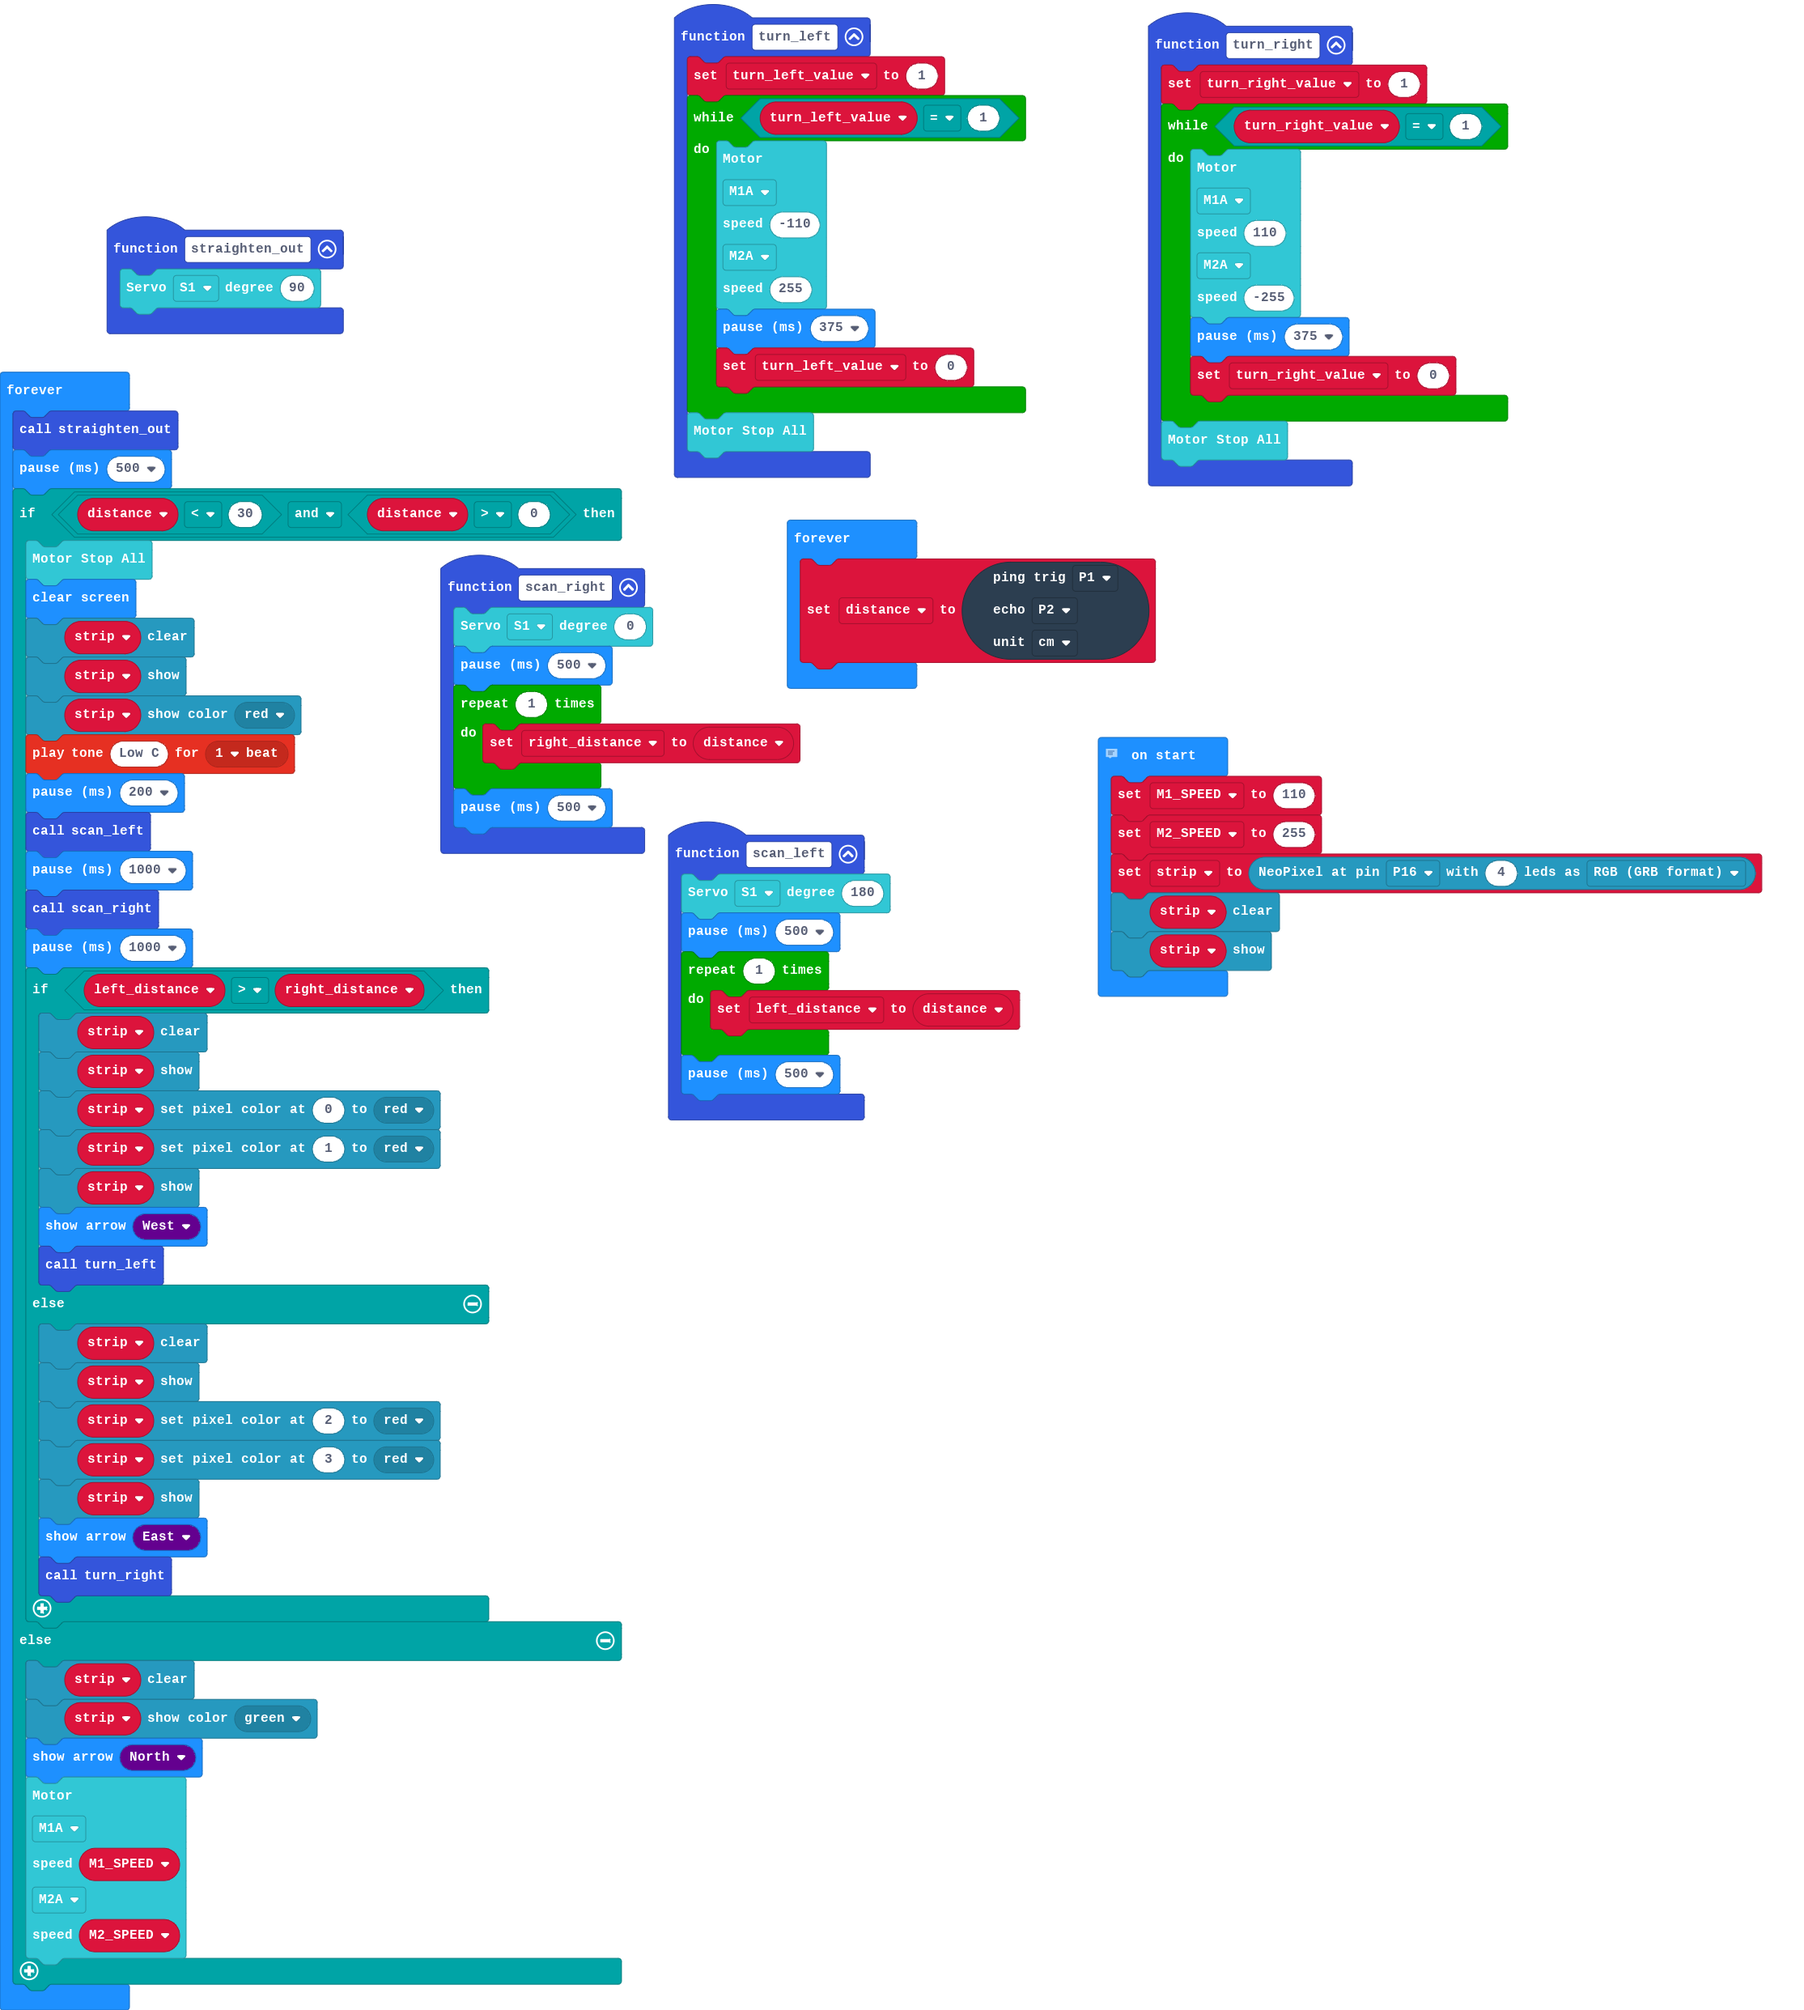
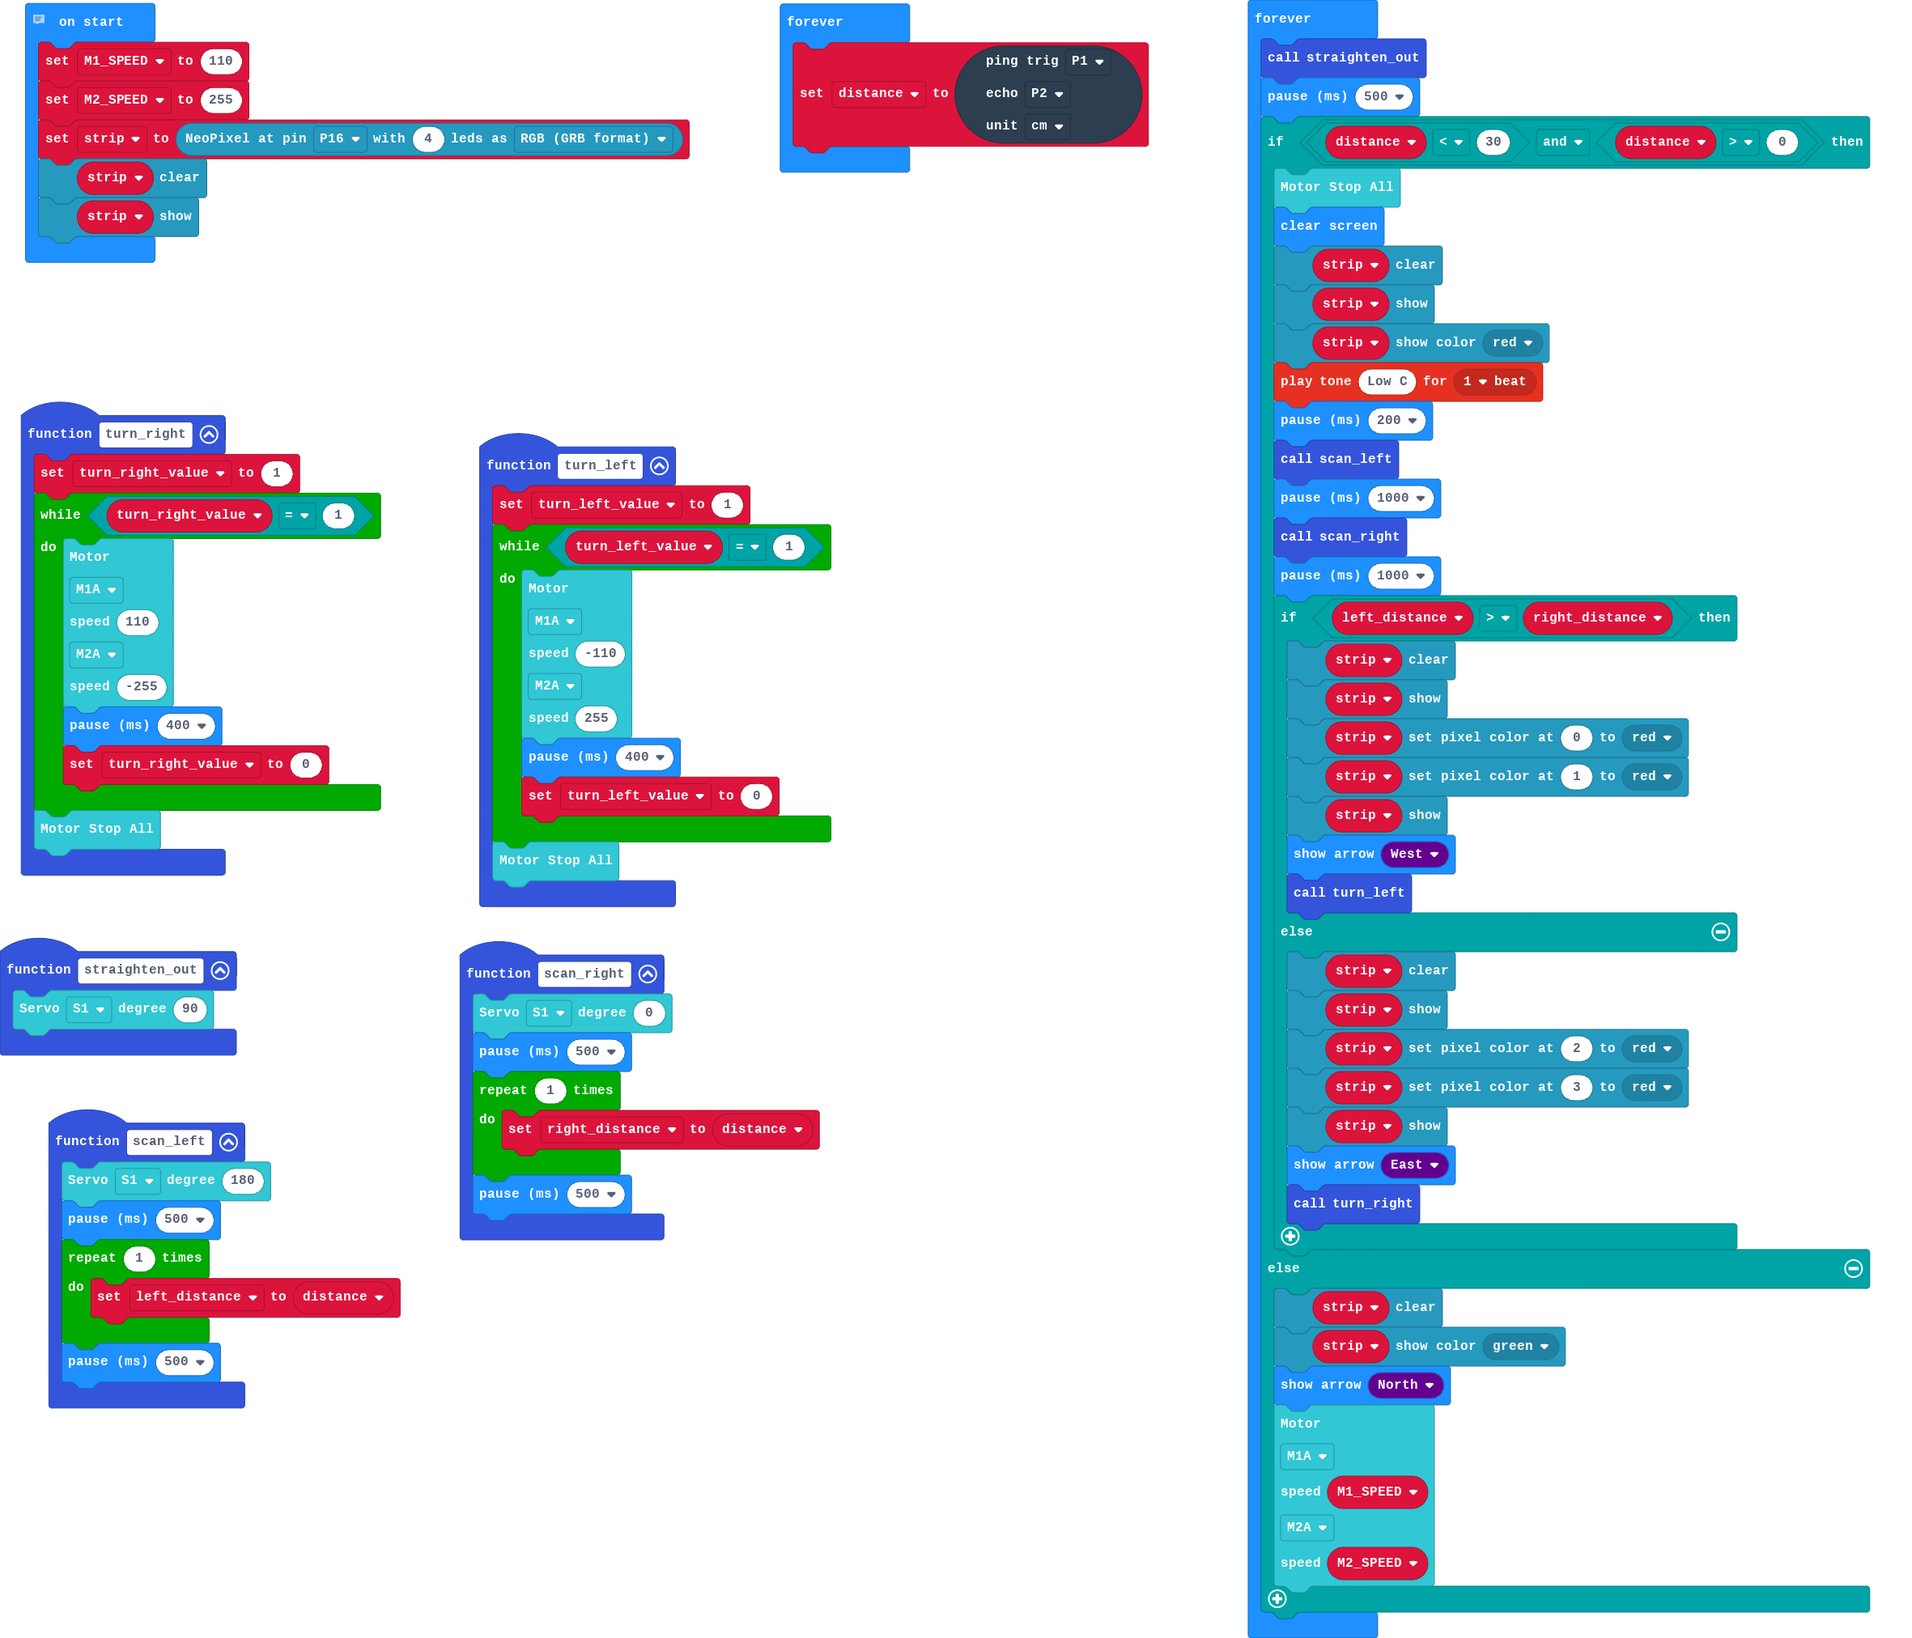
Update main.blocks, main.ts

diff --git a/main.ts b/main.ts
@@ -18,7 +18,7 @@ function turn_left () {
         robotbit.Motors.M2A,
         255
         )
-        basic.pause(375)
+        basic.pause(400)
         turn_left_value = 0
     }
     robotbit.MotorStopAll()
@@ -40,7 +40,7 @@ function turn_right () {
         robotbit.Motors.M2A,
         -255
         )
-        basic.pause(375)
+        basic.pause(400)
         turn_right_value = 0
     }
     robotbit.MotorStopAll()
@@ -59,6 +59,13 @@ let M2_SPEED = 255
 let strip = neopixel.create(DigitalPin.P16, 4, NeoPixelMode.RGB)
 strip.clear()
 strip.show()
+basic.forever(function () {
+    distance = sonar.ping(
+    DigitalPin.P1,
+    DigitalPin.P2,
+    PingUnit.Centimeters
+    )
+})
 basic.forever(function () {
     straighten_out()
     basic.pause(500)
@@ -102,11 +109,4 @@ basic.forever(function () {
         M2_SPEED
         )
     }
-})
-basic.forever(function () {
-    distance = sonar.ping(
-    DigitalPin.P1,
-    DigitalPin.P2,
-    PingUnit.Centimeters
-    )
 })
